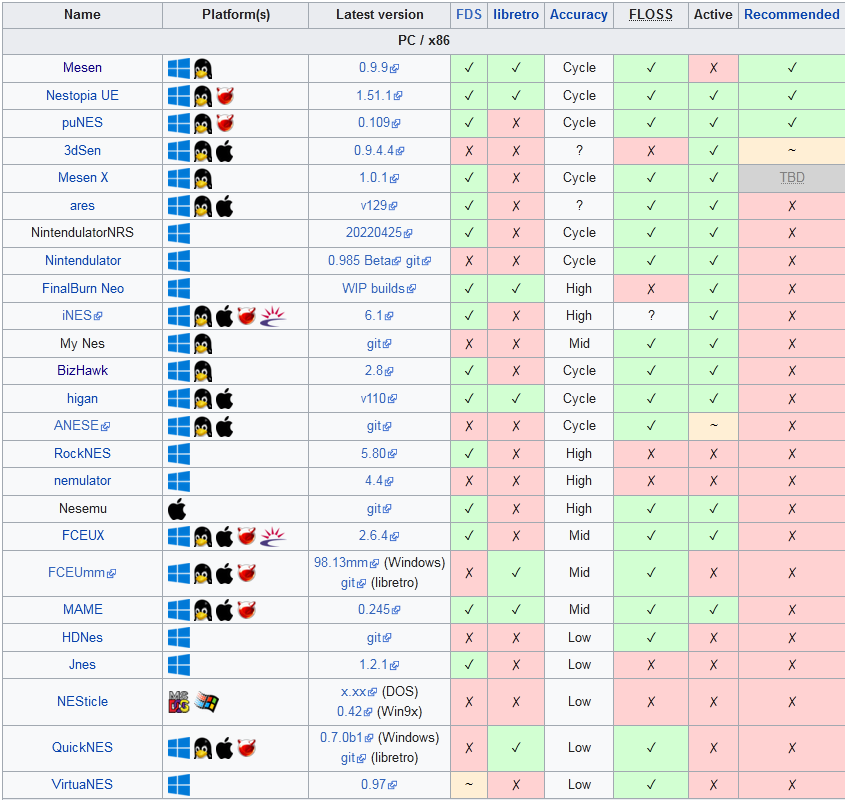
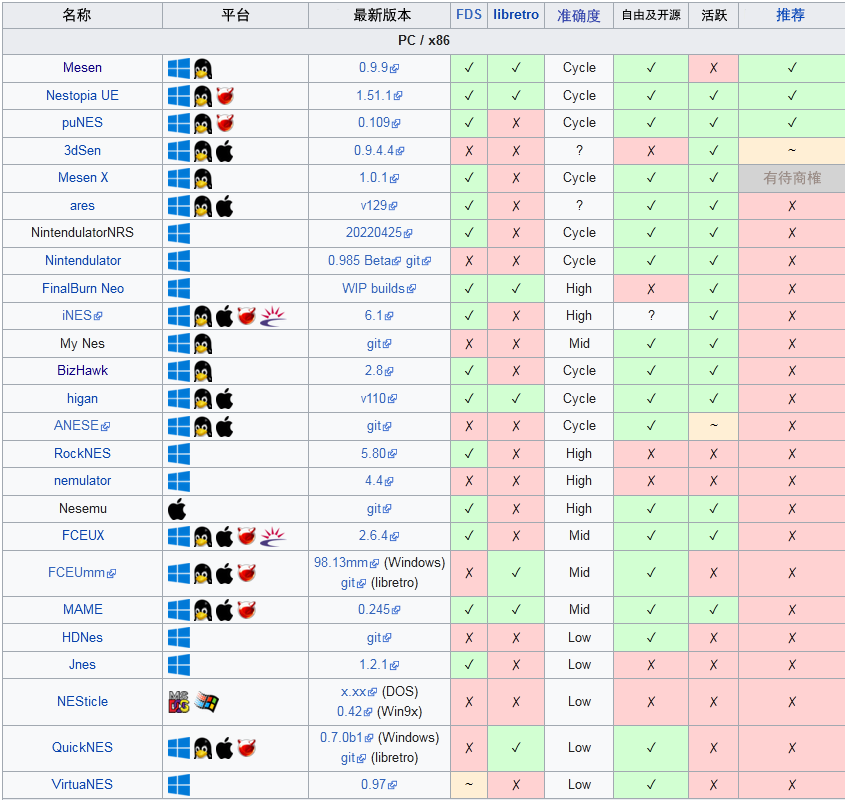
Changes to be committed: 	modified:   emu.html 	new file:   images/FC.jpg 	new file:   images/Mesen.png 	new file:   images/NES.png 	modified:   images/table1.png     modified:   images/table2.png

diff --git a/emu.html b/emu.html
@@ -15,12 +15,38 @@
         <h1>一.关于模拟器</h1>
         <p>游戏机模拟器是在计算机平台上模拟电子游戏机及其游戏的模拟器程序。通常情况下，游戏机模拟器能打破原游戏机硬件的限制，提供诸如非原生手柄的支持、游戏速度控制、性能与画质增强等功能。在为已停产的旧游戏机开发自制程序或新游戏的过程中，模拟器也起着重要作用。（摘自<a href="https://zh.wikipedia.org/wiki/%E6%B8%B8%E6%88%8F%E6%9C%BA%E6%A8%A1%E6%8B%9F%E5%99%A8"><cite>维基百科</cite></a>)</p>
         <h1>二.模拟器推荐</h1>
-        <h2>1.FC模拟器</h2>
+        <h2>1.<abbr title="Family Computer，在美、欧被称为Nintendo Entertainment System（NES)">FC</abbr>/<abbr title="Famicom Disk System，磁碟机">FDS</abbr>模拟器</h2>
         <h3>①FC介绍</h3>
+        <img src="images/FC.jpg"><img src="images/NES.png"><p>左图为FC和FDS,右图为NES</p>
         <p>FC游戏机，是任天堂生产、发行和销售的8位第三世代家用游戏机日本版，官方名称为家庭电脑（日版名：ファミリーコンピュータ，Family Computer，Famicom），俗称“红白机”，1983年7月15日在日本推出；欧美版名称为任天堂娱乐系统（英文版名：Nintendo Entertainment System，NES），俗称“灰机”，1985年10月18日在美国推出。欧美版主机外型和使用的游戏盒带（卡带），与日本版的红白机完全不同。红白机是当时最畅销的游戏机，全球累计销量超过了6100万台。FC游戏机出现对电子游戏产生了十分深远的影响，让美国电子游戏界从1983年的崩溃中恢复过来，也奠定了任天堂在当今游戏界的地位。（摘自<a href="https://zh.wikipedia.org/wiki/%E7%BA%A2%E7%99%BD%E6%9C%BA">维基百科</a>）</p>
-        <h3>②FC模拟器一览</h3>
-        <p>以下是电脑、手机和ARM系统上的FC模拟器。</p>
+        <h3>②FDS（磁碟机）介绍</h3>
+        <p>FC磁碟机（日语：ファミリーコンピュータディスクシステム，Family Computer Disk System，多简称为FDS、FCD）是日本电子游戏商任天堂于1986年2月推出的家用游戏机硬件，为任天堂于1983年发售的8位家用游戏机FC游戏机（俗称红白机）的外接配件之一。<br>
+           <br>FC磁碟机以软盘为存储介质。软盘的存储空间较当时大多数家用游戏机所使用的卡带大上许多，使FC磁碟机游戏之画面表现及音效多较同期之红白机游戏丰富。<br>
+           <br>FC磁碟机仅供日版主机使用，并未在北美地区推出。任天堂还曾授权夏普生产将红白机及FC磁碟机集成的二合一主机Twin Famicom，同样为日本专属主机。2003年9月，任天堂终止软盘改写服务[6]。2007年10月，FC磁碟机本体维修服务亦告终止，宣告主机生命周期正式终结。FC磁碟机在其生命周期中销量仅达444万部，以商业角度来看是失败的。(摘自<a href="https://zh.wikipedia.org/wiki/FC%E7%A3%81%E7%A2%9F%E6%A9%9F">维基百科</a>）</p>
+        <h3>③FC模拟器一览</h3>
+        <p>以下是电脑、手机和ARM系统上的FC/FDS模拟器。<br>
+        注：关于准确度的介绍详见<a href="https://emulation.gametechwiki.com/index.php/Emulation_accuracy">这里</a>（待翻译）</p>
         <img src="images/table1.png" alt="表格1"><br>
-        <img src="images/table2.png" alt="表格2">
+        <img src="images/table2.png" alt="表格2"><br>
+        <p>表格来源:<a href="https://emulation.gametechwiki.com/index.php/Nintendo_Entertainment_System_emulators#Emulators">Emulation General Wiki</a></p>
+        <h3>④FC模拟器推荐（仅个人意见）</h3>
+        <h4>推荐1:Mesen</h4>
+        <img src="images/Mesen.png">
+        <p>Mesen，一个开源的，非常准确以及兼容性高的FC/FDS模拟器（兼容度100%）。Mesen适用于Windows和Linux系统。它也是一个libretro内核，即可以在Retroarch上使用。可惜原作者停止开发，有<a href="https://github.com/NovaSquirrel/Mesen">Nova Squirrel</a>的Mesen-X和<a href=https://github.com/mkwong98/Mesen">mkwong98</a>的Fork正继续开发中。<br>
+        <br>
+            Mesen具有许多功能，包括：
+        <ul>
+            <li>支持超过290个Mapper（所有任天堂授权的游戏都可以运行）</li>
+            <li>FDS（磁碟机）支持</li>
+            <li>NTSC（日美版）/PAL（欧版）/Dendy（俄罗斯山寨FC）支持</li>
+            <li>VS系统支持</li>
+            <li>NSF音乐支持</li>
+            <li>加速、减速、倒带</li>
+            <li>录制视频</li>
+            <li>......</li>
+        </ul>
+        下载链接：<a href="https://www.mesen.ca/download.php">Mesen 0.9.9稳定版</a><br>
+        <a href="https://github.com/NovaSquirrel/Mesen-X/actions/workflows/win-build.yml">Mesen-X最新版（需要Github账号）</a><br>
+        <a href="https://github.com/mkwong98/Mesen/actions">mkwong98的Fork（需要Github账号）</a></p>
     </body>
 </html>
